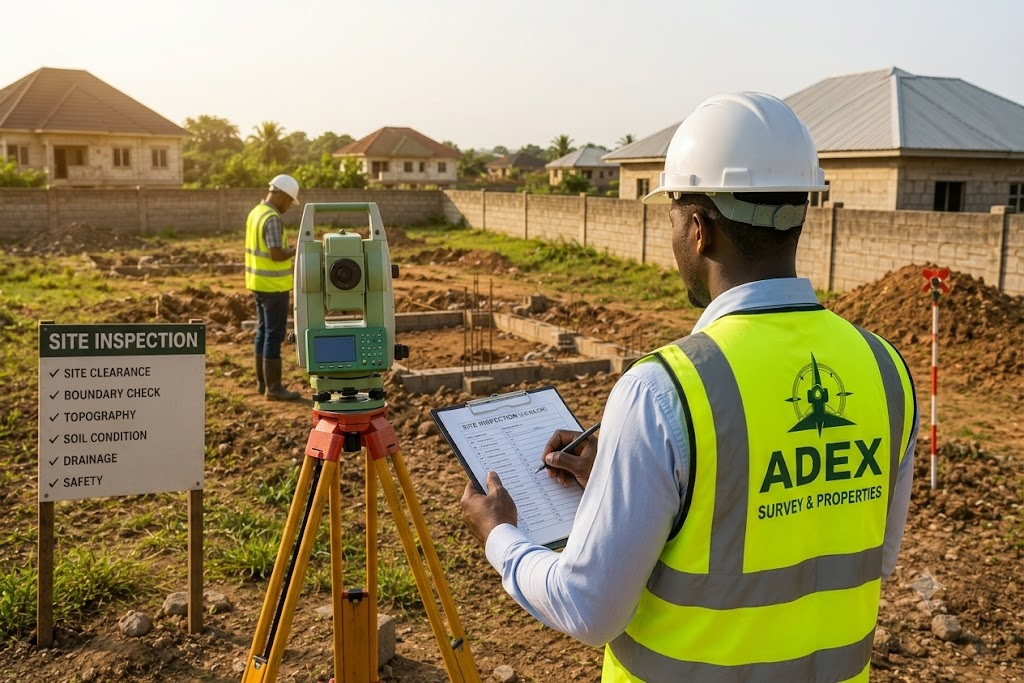
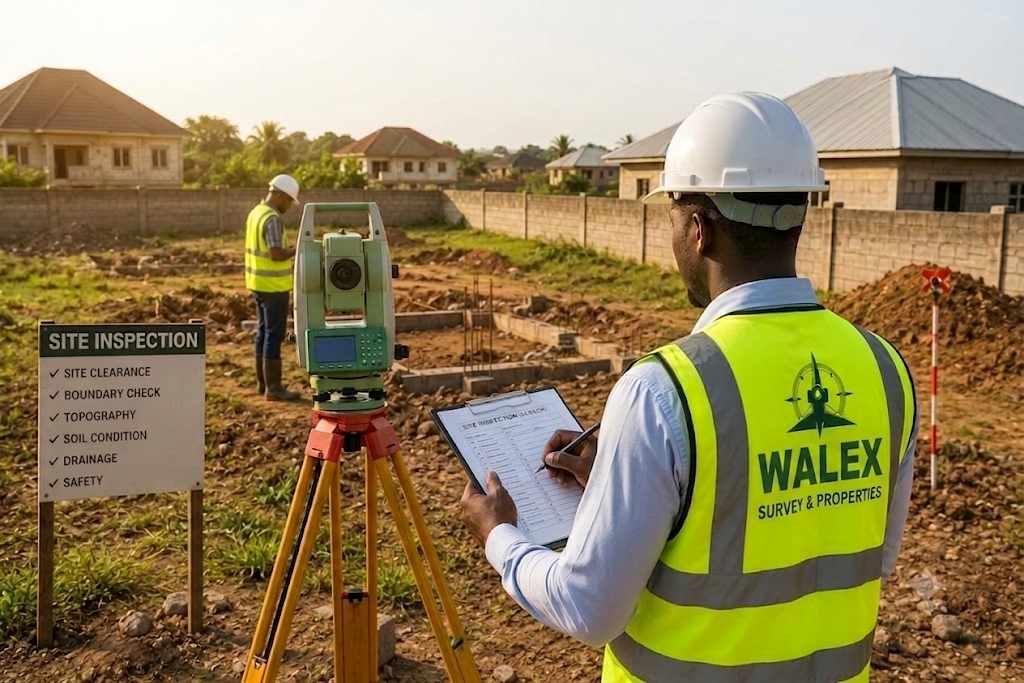
commit

diff --git a/index.html b/index.html
@@ -614,8 +614,8 @@ Book Inspection
 
                         <div>
                             <h5>Email</h5>
-                            <a href="mailto:mayomide043@gmail.com">
-                                mayomide043@gmail.com
+                            <a href="mailto:walexsurvey@gmail.com">
+                                walexsurvey@gmail.com
                             </a>
                         </div>
                     </div>
@@ -886,8 +886,8 @@ Book Inspection
                     <p>
                         <i class="fa-solid fa-envelope"></i>
 
-                        <a href="mailto:mayomide043@gmail.com">
-                            mayomide043@gmail.com
+                        <a href="mailto:walexsurvey@gmail.com">
+                            walexsurvey@gmail.com
                         </a>
                     </p>
 

diff --git a/surv.css b/surv.css
@@ -637,7 +637,6 @@ body{
         justify-content:center;
     }
 
-        border-radius:0 0 15px 15px;
 }
 /* =========================================
    TABLET RESPONSIVE DESIGN
